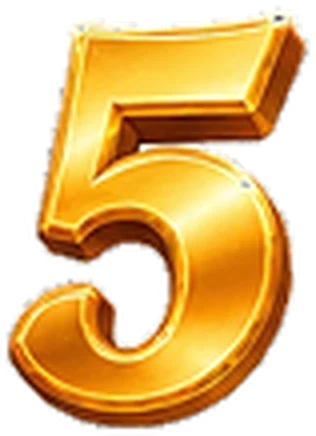
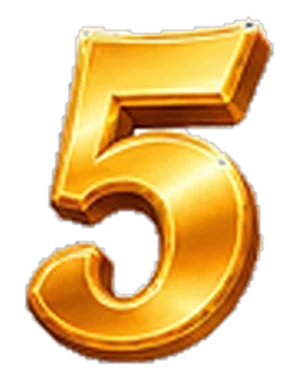
R67c: أرقام العد التنازلي بنفس الحجم ومتوسطة داخل الدائرة، وأصغر؛ الألعاب النارية على الجوانب بعيد عن الرقم
Claude-Session: https://claude.ai/code/session_013Dw5YXk6gdhBXsie6KboY7

diff --git a/public/sw.js b/public/sw.js
@@ -1,10 +1,10 @@
 /* لعبك — عامل الخدمة: تحديث الشبكة أولاً، واللعب الجماعي يحتاج اتصال. */
 const CACHE_PREFIX = 'la3bak-shell-';
-const VER = CACHE_PREFIX + 'r67b';
+const VER = CACHE_PREFIX + 'r67c';
 const LEGACY_SHELL_CACHES = ['la3bak-rank-vip-1'];
 // Deduplicate exact URLs; keep the existing network-first/offline policy.
 // The unused legacy codewords image is not precached; the shipped R45 cover stays.
-const SHELL = [...new Set(['/root-navigation-r50.js?v=back-nav-r51', '/preview/assets/game-minaboli-3d-r49.webp', '/preview/assets/game-codewords-3d-r45.webp', '/emerald-r44.css?v=r58q', '/unified/emerald-room-r44.css?v=r58p', '/unified/gift-compact-r38.css?v=r58p','/unified/room-owner-start-r33.css?v=r58q','/social-room-tools-r33.css?v=r58p','/community-access-r37.js','/unified/notifications.js?v=r66a','/social-room-tools-r33.js?v=r58p','/room-start-r33.js','/social-gift-context-r33.js','/gift3d-variants-r33.js','/unified/pk-reference-r32.css?v=r58p','/social-challenge.js?v=r57','/social-challenge.css?v=r58p','/room-photo-r31.js?v=room-photo-r31','/unified/room-photo-r31.css?v=r58q','/social-directory-r30.js?v=r63a','/unified/room-directory-r30.css?v=r58q','/unified/room-style-r27.css?v=r58p', '/unified/reference-room-r28.css?v=r58q', '/unified/reference-panels-r28.css?v=r58q', '/unified/reference-gifts-r28.css?v=r58q', '/unified/gift-colors-r29.css?v=r58p', '/unified/room-dock-r29.css?v=r58p', '/cannon3d-r29.css?v=r58p', '/cannon3d-r29.js?v=gifts-cannon-r29','/social-room-controls-r27.js?v=r58s','/gift3d-r27.js?v=emerald-r44','/gift3d-r27.css','/gift-assets-r27.js?v=catalog-r35','/social-gift-runtime-r27.js?v=r63a','/social-cannon-ui-r27.js?v=r63b','/social-challenge.js?v=r57','/social-challenge.css?v=r58p','/store-r23.css?v=r58p','/frame-art-r23.css?v=r58i2','/entrancefx-r23.js?v=r58r','/entrancefx-r23.css?v=emerald-r44','/preview/profile-head-r20.css?v=r58p', '/preview/profile-head-r22.css?v=r58p','/preview/profile-list-r19.css?v=r58p','/unified/room-composer-r18.css?v=r58p','/unified/global-search.js?v=global-search-r17','/unified/global-search.css?v=r58p','/unified/search-icon.js?v=global-search-r17','/preview/profile-frame-r4.css?v=r58p', '/brand-royal-r16.css?v=r58p', '/preview/profile-host-r15.css?v=emerald-r44','/unified/ranks.js?v=r66b', '/unified/ranks.css?v=r58p', '/unified/vip.js?v=r66b', '/unified/vip.css?v=r58p', '/unified/vip-noble-r52.js?v=r66b', '/unified/vip-noble-r52.css?v=r58q', '/profile-social-r53.js?v=r63a', '/preview/profile-r53.css?v=r58q', '/preview/rank-overview.js?v=r66b', '/preview/rank-overview.css?v=r58p', '/preview/rank-current.css?v=r58p', '/unified/backgrounds.js?v=r63b', '/unified/backgrounds.css?v=r58q', '/background-art.js?v=r58p', '/', '/preview.html?v=release-r14', '/app.css?v=r58q', '/reference-store.css?v=r58p', '/unified/home.css?v=r58p', '/unified/home.js?v=r63a', '/unified/unified.css?v=r60d', '/unified/shell.js?v=r67b', '/preview/profile.css?v=r58p', '/preview/profile-integration.css?v=r58p', '/preview/profile-match.css?v=r58q', '/preview/page-shell.css?v=r58p', '/preview/shop-modern.css?v=r58p', '/preview/app.js?v=r67b', '/preview/profile.js?v=r66b', '/preview/assets/profile/ui-icons-inline.js?v=r58p', '/preview/assets/profile/rank-display.js', '/pwa.js?v=r62e', '/boot.js?v=r64a', '/theme.js?v=r64a', '/theme.js?v=r64a', '/royal-gameplay.css?v=r58p', '/royal-navigation.css?v=r58p', '/auth.js', '/manifest.webmanifest', '/favicon.svg', '/apple-touch-icon.png', '/game-availability.js?v=games-royal-1', '/games.js?v=r59d',   '/offline.js?v=games-royal-1', '/unified/games.js?v=r57', '/unified/social.js?v=r67b', '/rank-perks-r56.js?v=r58i', '/rank-perks-r56.css?v=r56', '/unified/social-r55.css?v=r58q', '/unified/social.css?v=r58p', '/social-voice.js?v=release-r14', '/social-assets/majlis-atmosphere.webp', '/admin.js?v=r66a', '/admin-bulk-grants.js?v=r66a', '/admin-bulk-grants.css?v=r58p', '/preview/rank-current.css?v=r58p', '/preview/rank-overview.js?v=r66b', '/unified/payments.js?v=r63a', '/account-tools.js?v=ui-correction-r3', '/account-verification.css?v=r58q', '/unified/social-room-r7.css?v=r58p', '/social-gifts.js?v=r63a', '/social-assets/voice-night-r7.jpg', '/social-assets/friends-room-cover.webp', '/unified/wallet.js?v=r63b', '/shop.js?v=r63b', '/unified/store.js?v=r63b', '/unified/backgrounds.js?v=r63b', '/unified/payments.js?v=r63a', '/unified/payments.css?v=r58p', '/unified/social-settings-r12.css?v=r58p', '/social-benefits.js?v=r63a', '/unified/social-benefits-r12.css?v=r58q', '/gifts.js?v=r63a', '/gift-reward-ui.js?v=r63a', '/unified/gift-rewards-r13.css?v=r58p', '/giftart.js?v=release-r14', '/unified/game-voice-r9.css?v=r58p'])];
+const SHELL = [...new Set(['/root-navigation-r50.js?v=back-nav-r51', '/preview/assets/game-minaboli-3d-r49.webp', '/preview/assets/game-codewords-3d-r45.webp', '/emerald-r44.css?v=r58q', '/unified/emerald-room-r44.css?v=r58p', '/unified/gift-compact-r38.css?v=r58p','/unified/room-owner-start-r33.css?v=r58q','/social-room-tools-r33.css?v=r58p','/community-access-r37.js','/unified/notifications.js?v=r66a','/social-room-tools-r33.js?v=r58p','/room-start-r33.js','/social-gift-context-r33.js','/gift3d-variants-r33.js','/unified/pk-reference-r32.css?v=r58p','/social-challenge.js?v=r57','/social-challenge.css?v=r58p','/room-photo-r31.js?v=room-photo-r31','/unified/room-photo-r31.css?v=r58q','/social-directory-r30.js?v=r63a','/unified/room-directory-r30.css?v=r58q','/unified/room-style-r27.css?v=r58p', '/unified/reference-room-r28.css?v=r58q', '/unified/reference-panels-r28.css?v=r58q', '/unified/reference-gifts-r28.css?v=r58q', '/unified/gift-colors-r29.css?v=r58p', '/unified/room-dock-r29.css?v=r58p', '/cannon3d-r29.css?v=r58p', '/cannon3d-r29.js?v=gifts-cannon-r29','/social-room-controls-r27.js?v=r58s','/gift3d-r27.js?v=emerald-r44','/gift3d-r27.css','/gift-assets-r27.js?v=catalog-r35','/social-gift-runtime-r27.js?v=r63a','/social-cannon-ui-r27.js?v=r63b','/social-challenge.js?v=r57','/social-challenge.css?v=r58p','/store-r23.css?v=r58p','/frame-art-r23.css?v=r58i2','/entrancefx-r23.js?v=r58r','/entrancefx-r23.css?v=emerald-r44','/preview/profile-head-r20.css?v=r58p', '/preview/profile-head-r22.css?v=r58p','/preview/profile-list-r19.css?v=r58p','/unified/room-composer-r18.css?v=r58p','/unified/global-search.js?v=global-search-r17','/unified/global-search.css?v=r58p','/unified/search-icon.js?v=global-search-r17','/preview/profile-frame-r4.css?v=r58p', '/brand-royal-r16.css?v=r58p', '/preview/profile-host-r15.css?v=emerald-r44','/unified/ranks.js?v=r66b', '/unified/ranks.css?v=r58p', '/unified/vip.js?v=r66b', '/unified/vip.css?v=r58p', '/unified/vip-noble-r52.js?v=r66b', '/unified/vip-noble-r52.css?v=r58q', '/profile-social-r53.js?v=r63a', '/preview/profile-r53.css?v=r58q', '/preview/rank-overview.js?v=r66b', '/preview/rank-overview.css?v=r58p', '/preview/rank-current.css?v=r58p', '/unified/backgrounds.js?v=r63b', '/unified/backgrounds.css?v=r58q', '/background-art.js?v=r58p', '/', '/preview.html?v=release-r14', '/app.css?v=r58q', '/reference-store.css?v=r58p', '/unified/home.css?v=r58p', '/unified/home.js?v=r63a', '/unified/unified.css?v=r60d', '/unified/shell.js?v=r67c', '/preview/profile.css?v=r58p', '/preview/profile-integration.css?v=r58p', '/preview/profile-match.css?v=r58q', '/preview/page-shell.css?v=r58p', '/preview/shop-modern.css?v=r58p', '/preview/app.js?v=r67c', '/preview/profile.js?v=r66b', '/preview/assets/profile/ui-icons-inline.js?v=r58p', '/preview/assets/profile/rank-display.js', '/pwa.js?v=r62e', '/boot.js?v=r64a', '/theme.js?v=r64a', '/theme.js?v=r64a', '/royal-gameplay.css?v=r58p', '/royal-navigation.css?v=r58p', '/auth.js', '/manifest.webmanifest', '/favicon.svg', '/apple-touch-icon.png', '/game-availability.js?v=games-royal-1', '/games.js?v=r59d',   '/offline.js?v=games-royal-1', '/unified/games.js?v=r57', '/unified/social.js?v=r67c', '/rank-perks-r56.js?v=r58i', '/rank-perks-r56.css?v=r56', '/unified/social-r55.css?v=r58q', '/unified/social.css?v=r58p', '/social-voice.js?v=release-r14', '/social-assets/majlis-atmosphere.webp', '/admin.js?v=r66a', '/admin-bulk-grants.js?v=r66a', '/admin-bulk-grants.css?v=r58p', '/preview/rank-current.css?v=r58p', '/preview/rank-overview.js?v=r66b', '/unified/payments.js?v=r63a', '/account-tools.js?v=ui-correction-r3', '/account-verification.css?v=r58q', '/unified/social-room-r7.css?v=r58p', '/social-gifts.js?v=r63a', '/social-assets/voice-night-r7.jpg', '/social-assets/friends-room-cover.webp', '/unified/wallet.js?v=r63b', '/shop.js?v=r63b', '/unified/store.js?v=r63b', '/unified/backgrounds.js?v=r63b', '/unified/payments.js?v=r63a', '/unified/payments.css?v=r58p', '/unified/social-settings-r12.css?v=r58p', '/social-benefits.js?v=r63a', '/unified/social-benefits-r12.css?v=r58q', '/gifts.js?v=r63a', '/gift-reward-ui.js?v=r63a', '/unified/gift-rewards-r13.css?v=r58p', '/giftart.js?v=release-r14', '/unified/game-voice-r9.css?v=r58p'])];
 self.addEventListener('install', (e) => {
   e.waitUntil(caches.open(VER).then((c) => Promise.all(SHELL.map((u) => c.add(new Request(u, { cache: 'reload' })).catch(() => {})))).then(() => self.skipWaiting()));
 });

diff --git a/public/index.html b/public/index.html
@@ -25,8 +25,8 @@
 <link rel="preconnect" href="https://fonts.googleapis.com">
 <link rel="preconnect" href="https://fonts.gstatic.com" crossorigin>
 <!-- Exact URLs used by app.js/shell.js: modulepreload warms, never forks module state. -->
-<link rel="modulepreload" href="/preview/app.js?v=r67b">
-<link rel="modulepreload" href="/unified/shell.js?v=r67b">
+<link rel="modulepreload" href="/preview/app.js?v=r67c">
+<link rel="modulepreload" href="/unified/shell.js?v=r67c">
 <link rel="modulepreload" href="/unified/home.js?v=r63a">
 <link rel="modulepreload" href="/preview/profile.js?v=r66b">
 <link rel="stylesheet" href="/app.css?v=r58q">
@@ -87,7 +87,7 @@
 <link rel="stylesheet" href="/room-upgrade-r47.css?v=r58p">
 <link rel="stylesheet" href="/auction-r47.css?v=r58p">
 <link rel="stylesheet" href="/family-r47.css?v=build-all-r47">
-<link rel="stylesheet" href="/room-r67.css?v=r67b">
+<link rel="stylesheet" href="/room-r67.css?v=r67c">
 <link rel="stylesheet" href="/badge-r64.css?v=r66a">
 </head>
 <body class="reference-ui">
@@ -140,6 +140,6 @@
 <script type="module" src="/friends-live-r58.js?v=r58u"></script>
 <script type="module" src="/cp-r58.js?v=r67a"></script>
 <script type="module" src="/tribe-r58.js?v=r63a"></script>
-<script type="module" src="/preview/app.js?v=r67b"></script>
+<script type="module" src="/preview/app.js?v=r67c"></script>
 </body>
 </html>

diff --git a/public/preview.html b/public/preview.html
@@ -25,8 +25,8 @@
 <link rel="preconnect" href="https://fonts.googleapis.com">
 <link rel="preconnect" href="https://fonts.gstatic.com" crossorigin>
 <!-- Exact URLs used by app.js/shell.js: modulepreload warms, never forks module state. -->
-<link rel="modulepreload" href="/preview/app.js?v=r67b">
-<link rel="modulepreload" href="/unified/shell.js?v=r67b">
+<link rel="modulepreload" href="/preview/app.js?v=r67c">
+<link rel="modulepreload" href="/unified/shell.js?v=r67c">
 <link rel="modulepreload" href="/unified/home.js?v=r63a">
 <link rel="modulepreload" href="/preview/profile.js?v=r66b">
 <link rel="stylesheet" href="/app.css?v=r58q">
@@ -77,7 +77,7 @@
 <link rel="stylesheet" href="/room-r58.css?v=r66a">
 <link rel="stylesheet" href="/dark-r62.css?v=r64a">
 <link rel="stylesheet" href="/art58-r58l.css?v=r59b">
-<link rel="stylesheet" href="/room-r67.css?v=r67b">
+<link rel="stylesheet" href="/room-r67.css?v=r67c">
 <link rel="stylesheet" href="/badge-r64.css?v=r66a">
 </head>
 <body class="reference-ui">
@@ -130,6 +130,6 @@
 <script type="module" src="/friends-live-r58.js?v=r58u"></script>
 <script type="module" src="/cp-r58.js?v=r67a"></script>
 <script type="module" src="/tribe-r58.js?v=r63a"></script>
-<script type="module" src="/preview/app.js?v=r67b"></script>
+<script type="module" src="/preview/app.js?v=r67c"></script>
 </body>
 </html>

diff --git a/public/unified/room-cannon-r59.js b/public/unified/room-cannon-r59.js
@@ -39,7 +39,7 @@ export function cannon3Panel(m, view, help = false) {
 }
 const seen = new Set();
 /** R67b الانفجار بالرسومات الجديدة: الدائرة الذهبية تدور، أعلى مساهم بالإطار، أرقام ذهبية 5→1، المدفع يطلق والألعاب النارية، انفجار، وبعدين «تهانينا!». */
-const FX = '/assets/art67/cannon/', FXV = 'r67b';
+const FX = '/assets/art67/cannon/', FXV = 'r67c';
 const fx = (n) => `${FX}${n}.webp?v=${FXV}`;
 const CANNON_ART = ['cannon-green', 'cannon-red', 'cannon-purple'];
 const FW = ['fireworks-gold', 'fireworks-purple', 'fireworks-pink'];
@@ -73,7 +73,7 @@ export function cannon3Blast(ev) {
     if (reduced) return;
     for (let j = 0; j < 2; j++) {
       const b = document.createElement('i'); b.className = 'c67b-fw';
-      b.style.cssText = `--x:${8 + Math.random() * 74}%;--y:${6 + Math.random() * 46}%;--s:${0.7 + Math.random() * 0.7};background-image:url(${fx(FW[(k + j) % 3])});animation-delay:${j * 0.35}s`;
+      b.style.cssText = `--x:${(j + k) % 2 ? 6 + Math.random() * 18 : 76 + Math.random() * 18}%;--y:${8 + Math.random() * 56}%;--s:${0.7 + Math.random() * 0.7};background-image:url(${fx(FW[(k + j) % 3])});animation-delay:${j * 0.35}s`;
       fws.append(b); setTimeout(() => b.remove(), 1600);
     }
   };

diff --git a/public/room-r67.css b/public/room-r67.css
@@ -190,7 +190,7 @@
 .c67b-face img{width:100%;height:100%;object-fit:cover;}
 .c67b-top em{font-style:normal;font-weight:900;font-size:17px;color:#fff;text-shadow:0 2px 8px #000,0 0 12px #E0A526;}
 .c67b-top small{font-size:13px;color:#FFD66B;text-shadow:0 1px 4px #000;}
-.c67b-num{position:absolute;top:44%;left:50%;height:min(30vh,210px);width:auto;transform:translate(-50%,-50%);filter:drop-shadow(0 8px 0 #4a1d05) drop-shadow(0 0 26px #E0A526cc);}
+.c67b-num{position:absolute;top:44%;left:50%;height:min(19vh,150px);width:auto;transform:translate(-50%,-50%);filter:drop-shadow(0 8px 0 #4a1d05) drop-shadow(0 0 26px #E0A526cc);}
 .c67b-num.is-pop{animation:c67bPop .55s cubic-bezier(.2,1.6,.4,1);}
 @keyframes c67bPop{0%{transform:translate(-50%,-130%) scale(1.6);opacity:0}60%{transform:translate(-50%,-46%) scale(.94);opacity:1}100%{transform:translate(-50%,-50%) scale(1)}}
 .c67b-cannon{position:absolute;left:50%;bottom:calc(3% + env(safe-area-inset-bottom,0px));width:min(62vw,280px);transform:translateX(-62%);}

diff --git a/public/unified/shell.js b/public/unified/shell.js
@@ -15,7 +15,7 @@ import * as store from './store.js?v=r63b';
 import * as payments from './payments.js?v=r63a';
 import * as ranks from './ranks.js?v=r66b';
 import * as vip from './vip.js?v=r66b';
-import * as social from './social.js?v=r67b';
+import * as social from './social.js?v=r67c';
 const modules={home,rooms,wallet,notifications,messages,friends,ranking,games,settings,store,payments,ranks,vip,social};
 export const routes=Object.freeze(['home','rooms','social-rooms','social-room','wallet','notifications','notifications-internal','messages','friends','leaderboard','games','settings','shop','payments','ranks','vip','game','hub','room','join','city','lobby','play','offline','daily','challenge','events','tournaments','support','contact','auction','family','missions','visitors','invite','verification','rank-rewards','about','privacy','terms','agreement','privacy-settings','account-info','devices','hidden-posts','community','post','u','not-found']);
 export const hasRoute=name=>routes.includes(name);

diff --git a/public/unified/social.js b/public/unified/social.js
@@ -11,7 +11,7 @@ import {framed as frameOwnedPortrait} from '../shop.js?v=r63b';
 import { createEntranceFX } from '../entrancefx-r23.js?v=r58r';
 import { createSocialChallenge, renderSetup, validateTeams, preserveScorebar } from '../social-challenge.js?v=r57';
 import {attachGiftRuntime,receiveGiftRuntime,clearGiftRuntime,giftRuntimeMetrics,giftArtwork} from '../social-gift-runtime-r27.js?v=r63a';
-import {cannon3Shortcut,cannon3Panel,cannon3Blast} from './room-cannon-r59.js?v=r67b';
+import {cannon3Shortcut,cannon3Panel,cannon3Blast} from './room-cannon-r59.js?v=r67c';
 import {cannonPanel,cannonShortcut,createCannonEffects} from '../social-cannon-ui-r27.js?v=r63b';
 /* Social rooms only. Parent owns routes, session, authenticated api and shell.
  * The live controller outlives DOM mounts. No implicit room/council join on render. */

diff --git a/public/preview/app.js b/public/preview/app.js
@@ -1,8 +1,8 @@
 import { createGlobalSearch } from '../unified/global-search.js?v=global-search-r17';
 import * as PR from './profile.js?v=r66b';
-import * as UNIFIED from '../unified/shell.js?v=r67b';
+import * as UNIFIED from '../unified/shell.js?v=r67c';
 import * as REF from '../unified/home.js?v=r63a';
-import * as SOCIAL from '../unified/social.js?v=r67b';
+import * as SOCIAL from '../unified/social.js?v=r67c';
 const { leaveSocial, refreshSocial } = SOCIAL;
 import { isRetiredGame, visibleGameCatalogue, retiredGameHTML } from '../game-availability.js?v=games-royal-1';
 import { createSocialGiftStore } from '../social-gifts.js?v=r63a';
